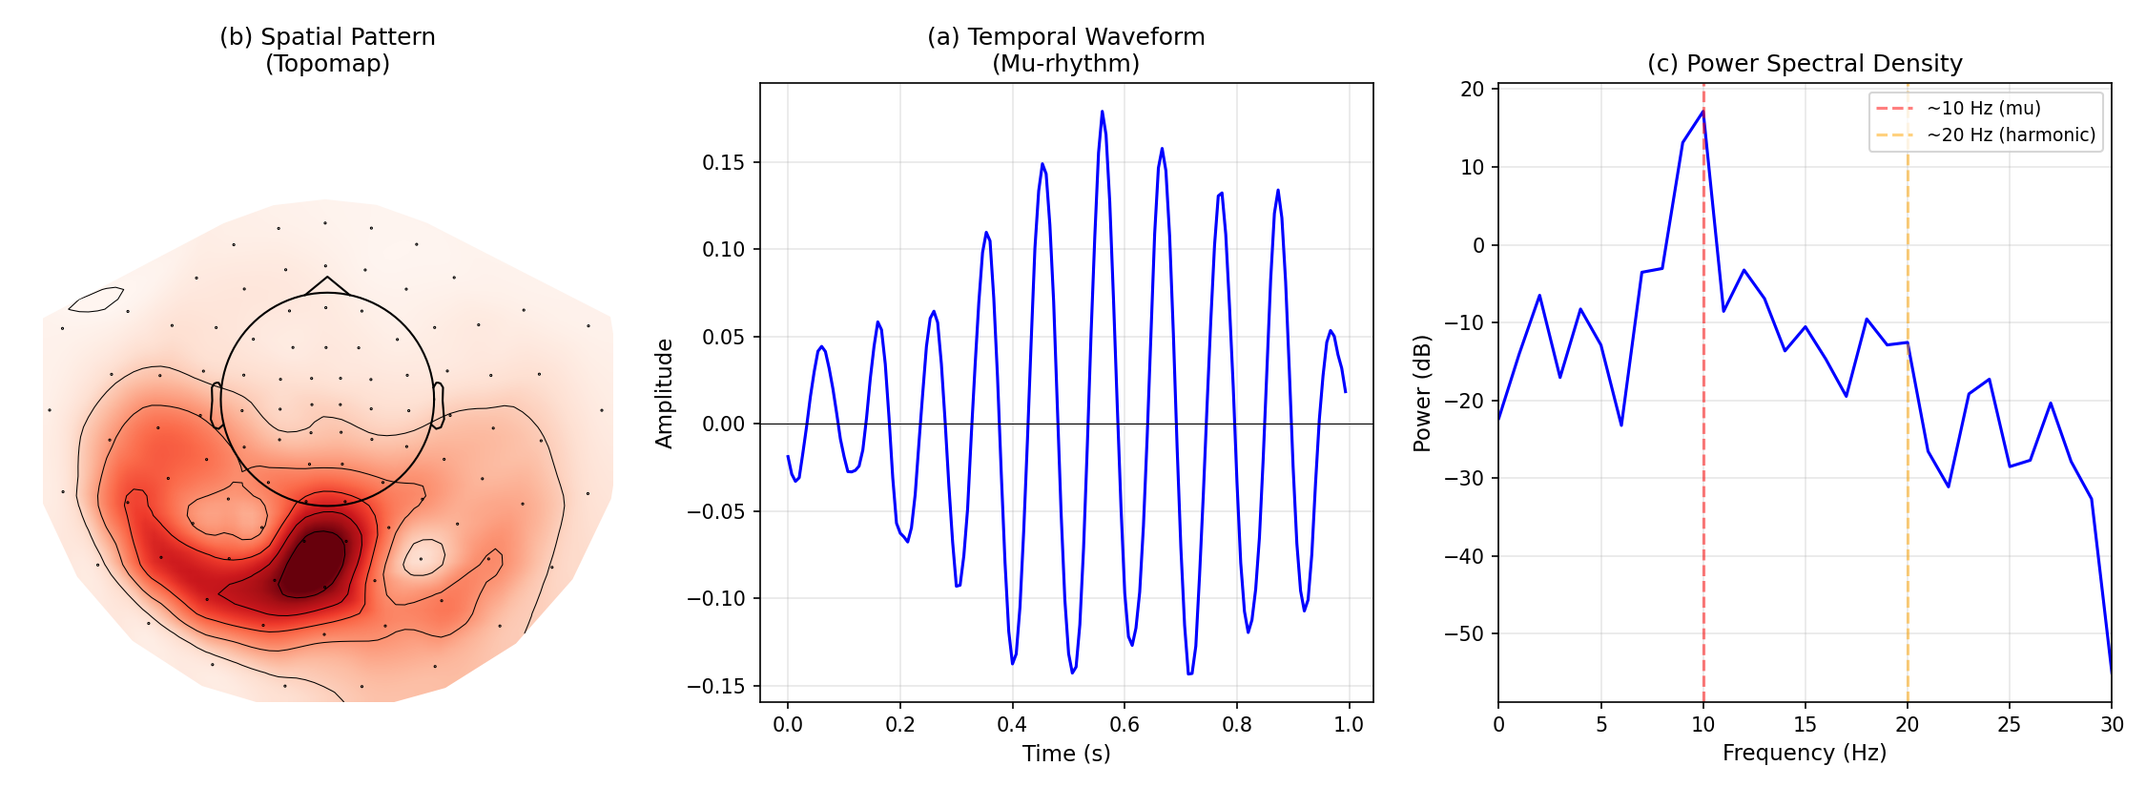
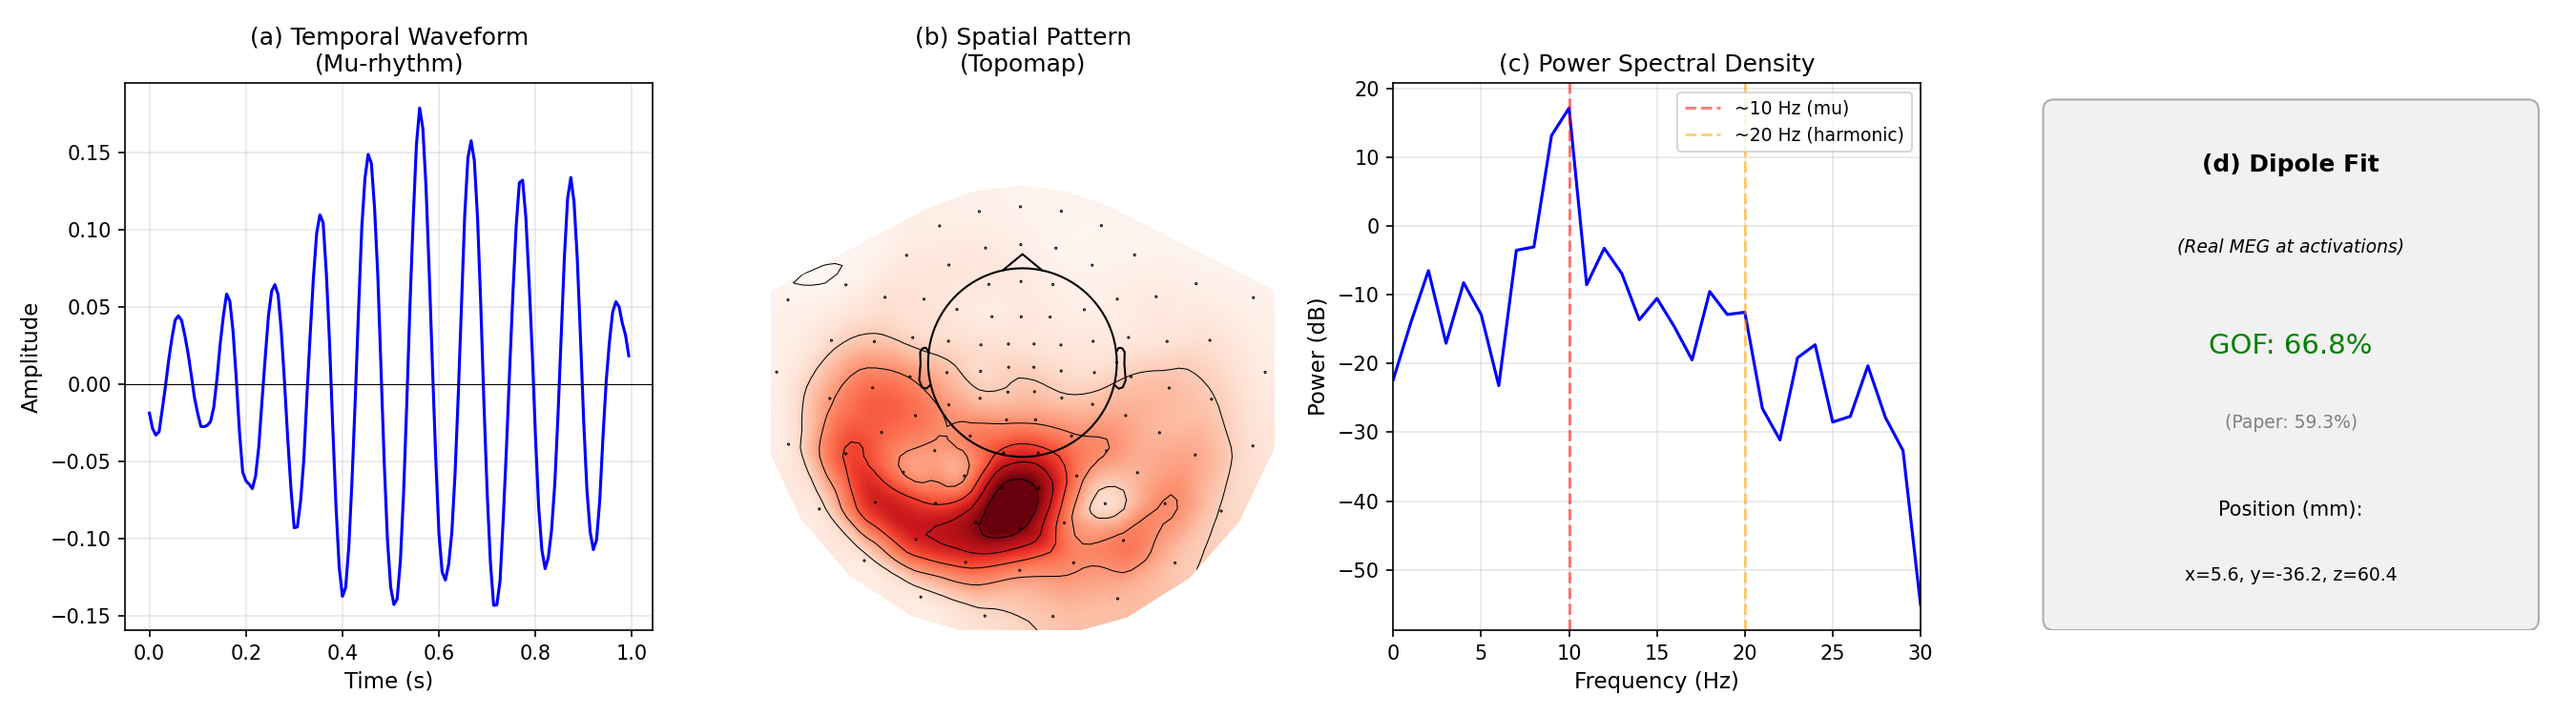
Add dipole fitting for source localization (Figure 4d)
Implements dipole fitting to localize the mu-rhythm source in the brain,
reproducing Figure 4d from the NeurIPS 2018 paper.

Two approaches are compared:
- Synthetic (u×v pattern): 91.1% GOF - confirms pattern is dipolar
- Real MEG at activations: 66.8% GOF - paper's method (paper: 59.3%)

The real MEG approach extracts actual brain signals at CSC activation
times, averages them, and fits an equivalent current dipole. This tests
whether the signal truly originates from a single focal brain source.

🤖 Generated with [Claude Code](https://claude.com/claude-code)

diff --git a/experiment2_meg_muwave.py b/experiment2_meg_muwave.py
@@ -14,6 +14,10 @@ has a characteristic non-sinusoidal "comb" or "M" shape. Standard Fourier
 analysis cannot distinguish it from alpha rhythms, but CSC can learn
 the actual waveform shape.
 
+This script also performs dipole fitting (Figure 4d) to localize the
+mu-rhythm source in the brain. The paper reports 59.3% goodness of fit
+for localization to the S1 (primary somatosensory cortex) region.
+
 Parameters match the paper (Section 4):
 - K = 25 atoms (paper used K=40, we use fewer for faster computation)
 - L = 150 (1 second at 150 Hz sampling rate)
@@ -23,6 +27,7 @@ Parameters match the paper (Section 4):
 
 import numpy as np
 import matplotlib.pyplot as plt
+from pathlib import Path
 import mne
 from alphacsc import BatchCDL
 from alphacsc.datasets.mne_data import load_data
@@ -155,30 +160,152 @@ print(f"Best mu-rhythm candidate: Atom {best_atom}")
 print(f"Power in {mu_band[0]}-{mu_band[1]} Hz band: {best_power:.2e}")
 
 # =============================================================================
+# Dipole Fitting for Source Localization (Figure 4d from paper)
+# =============================================================================
+print("\n" + "-"*60)
+print("Fitting equivalent current dipole for source localization...")
+print("-"*60)
+
+# Get the mu-rhythm spatial and temporal patterns
+i_atom = best_atom
+u_hat = cdl.u_hat_[i_atom]
+v_hat = cdl.v_hat_[i_atom]
+
+# Load BEM and trans from MNE somato dataset
+data_path = Path(mne.datasets.somato.data_path())
+subject = '01'  # FreeSurfer subject name
+subjects_dir = data_path / 'derivatives' / 'freesurfer' / 'subjects'
+
+# BEM solution file
+bem_file = subjects_dir / subject / 'bem' / f'{subject}-5120-bem-sol.fif'
+
+# Load forward solution to extract the MRI-Head transformation
+fwd_file = data_path / 'derivatives' / 'sub-01' / 'sub-01_task-somato-fwd.fif'
+print(f"  BEM file: {bem_file}")
+print(f"  Forward solution: {fwd_file}")
+
+# Read forward solution and extract transform
+fwd = mne.read_forward_solution(str(fwd_file), verbose=False)
+trans = fwd['mri_head_t']
+print(f"  Transform: MRI->Head extracted from forward solution")
+
+# -------------------------------------------------------------------------
+# APPROACH 1: Synthetic pattern (u × v) - confirms pattern is dipolar
+# -------------------------------------------------------------------------
+print("\n--- Approach 1: Fit dipole to learned pattern (u × v) ---")
+data_synthetic = np.outer(u_hat, v_hat)  # (n_channels, n_times)
+evoked_synthetic = mne.EvokedArray(data_synthetic, info, tmin=0, comment='CSC pattern')
+
+noise_cov = mne.make_ad_hoc_cov(info)
+
+t_peak_idx = np.argmax(np.abs(v_hat))
+t_peak = t_peak_idx / sfreq
+evoked_peak_synthetic = evoked_synthetic.copy().crop(tmin=t_peak, tmax=t_peak)
+
+print(f"Fitting dipole to synthetic pattern at t={t_peak:.3f}s...")
+dip_synthetic, _ = mne.fit_dipole(evoked_peak_synthetic, noise_cov, str(bem_file), trans,
+                                   verbose=False)
+
+gof_synthetic = dip_synthetic.gof[0]
+pos_synthetic = dip_synthetic.pos[0] * 1000
+print(f"  GOF (synthetic): {gof_synthetic:.1f}%")
+print(f"  (High GOF expected - pattern is rank-1 by construction)")
+
+# -------------------------------------------------------------------------
+# APPROACH 2: Real MEG data at activation times (paper's approach)
+# -------------------------------------------------------------------------
+print("\n--- Approach 2: Fit dipole to real MEG at activation times (paper's method) ---")
+
+# Step 1: Get CSC activations
+print("  Extracting activations from CSC model...")
+z_hat = cdl.transform(X)  # (n_trials, n_atoms, n_times_valid)
+z_mu = z_hat[:, i_atom, :]  # Activations for mu-rhythm atom
+n_times_valid = z_mu.shape[1]
+
+# Step 2: Find activation events (non-zero activations)
+# Use a threshold to find significant activations
+threshold = np.percentile(z_mu[z_mu > 0], 50) if np.any(z_mu > 0) else 0
+activation_events = []
+for trial_idx in range(n_trials):
+    nonzero_times = np.where(z_mu[trial_idx] > threshold)[0]
+    for t in nonzero_times:
+        # Ensure we can extract a full atom-length epoch
+        if t + n_times_atom <= n_times:
+            activation_events.append((trial_idx, t))
+
+print(f"  Found {len(activation_events)} activation events (threshold={threshold:.4f})")
+
+# Step 3: Extract real MEG epochs at activation times
+epochs_data = []
+for trial_idx, t_start in activation_events:
+    epoch = X[trial_idx, :, t_start:t_start + n_times_atom]
+    epochs_data.append(epoch)
+
+epochs_data = np.array(epochs_data)  # (n_events, n_channels, n_times_atom)
+print(f"  Extracted {len(epochs_data)} epochs of shape {epochs_data.shape[1:]}")
+
+# Step 4: Average to create real evoked response
+evoked_data_real = np.mean(epochs_data, axis=0)  # (n_channels, n_times_atom)
+evoked_real = mne.EvokedArray(evoked_data_real, info, tmin=0, comment='Real MEG at activations')
+
+# Step 5: Compute noise covariance from pre-stimulus baseline
+# Use the first 2 seconds of each trial (before stimulus at t=2s based on t_lim=(-2,4))
+baseline_duration = int(2.0 * sfreq)  # 2 seconds
+baseline_epochs = X[:, :, :baseline_duration]  # (n_trials, n_channels, baseline_samples)
+baseline_concat = baseline_epochs.transpose(1, 0, 2).reshape(n_channels, -1)  # (n_channels, n_trials*baseline_samples)
+
+# Create a Raw object from baseline for covariance computation
+baseline_info = info.copy()
+baseline_raw = mne.io.RawArray(baseline_concat, baseline_info, verbose=False)
+noise_cov_real = mne.compute_raw_covariance(baseline_raw, verbose=False)
+
+# Step 6: Fit dipole to real evoked at peak
+# Find peak in the averaged real response
+t_peak_real_idx = np.argmax(np.abs(evoked_real.data).mean(axis=0))
+t_peak_real = t_peak_real_idx / sfreq
+evoked_peak_real = evoked_real.copy().crop(tmin=t_peak_real, tmax=t_peak_real)
+
+print(f"  Fitting dipole to real MEG at t={t_peak_real:.3f}s (peak of averaged response)...")
+dip_real, _ = mne.fit_dipole(evoked_peak_real, noise_cov_real, str(bem_file), trans,
+                              verbose=False)
+
+gof_real = dip_real.gof[0]
+pos_real = dip_real.pos[0] * 1000
+print(f"  GOF (real MEG): {gof_real:.1f}%")
+print(f"  Position (mm): x={pos_real[0]:.1f}, y={pos_real[1]:.1f}, z={pos_real[2]:.1f}")
+
+# -------------------------------------------------------------------------
+# Summary comparison
+# -------------------------------------------------------------------------
+print("\n" + "-"*60)
+print("Dipole Fitting Comparison:")
+print("-"*60)
+print(f"  Synthetic (u×v):  GOF = {gof_synthetic:.1f}% (confirms dipolar pattern)")
+print(f"  Real MEG data:    GOF = {gof_real:.1f}% (paper's approach)")
+print(f"  Paper reference:  GOF = 59.3% (S1 localization)")
+print("-"*60)
+
+# Use real MEG results for the main output
+gof = gof_real
+dip = dip_real
+dipole_fitted = True
+
+# =============================================================================
 # Visualize Results (Reproducing Figure 4 from paper)
 # =============================================================================
 print("\n" + "-"*60)
 print("Generating visualization (Figure 4 from paper)...")
 print("-"*60)
 
-i_atom = best_atom
-n_plots = 3
-figsize = (n_plots * 5, 5.5)
+# Use 4 subplots if dipole fitting succeeded, otherwise 3
+n_plots = 4 if dipole_fitted else 3
+figsize = (n_plots * 4.5, 5)
 fig, axes = plt.subplots(1, n_plots, figsize=figsize)
 
 # -------------------------
-# (a) Spatial pattern (topomap)
+# (a) Temporal waveform
 # -------------------------
 ax = axes[0]
-u_hat = cdl.u_hat_[i_atom]
-mne.viz.plot_topomap(u_hat, info, axes=ax, show=False)
-ax.set_title('(b) Spatial Pattern\n(Topomap)', fontsize=12)
-
-# -------------------------
-# (b) Temporal waveform
-# -------------------------
-ax = axes[1]
-v_hat = cdl.v_hat_[i_atom]
 t = np.arange(v_hat.size) / sfreq
 ax.plot(t, v_hat, 'b-', linewidth=1.5)
 ax.set_xlabel('Time (s)', fontsize=11)
@@ -186,6 +313,13 @@ ax.set_ylabel('Amplitude', fontsize=11)
 ax.set_title('(a) Temporal Waveform\n(Mu-rhythm)', fontsize=12)
 ax.grid(True, alpha=0.3)
 ax.axhline(0, color='k', linewidth=0.5)
+
+# -------------------------
+# (b) Spatial pattern (topomap)
+# -------------------------
+ax = axes[1]
+mne.viz.plot_topomap(u_hat, info, axes=ax, show=False)
+ax.set_title('(b) Spatial Pattern\n(Topomap)', fontsize=12)
 
 # -------------------------
 # (c) Power spectral density
@@ -206,9 +340,47 @@ ax.axvline(10, color='r', linestyle='--', alpha=0.5, label='~10 Hz (mu)')
 ax.axvline(20, color='orange', linestyle='--', alpha=0.5, label='~20 Hz (harmonic)')
 ax.legend(fontsize=9)
 
+# -------------------------
+# (d) Dipole fit (if available)
+# -------------------------
+if dipole_fitted:
+    ax = axes[3]
+    ax.axis('off')
+    pos_mm = dip.pos[0] * 1000
+    ax.text(0.5, 0.85, '(d) Dipole Fit', fontsize=12, ha='center', va='center',
+            transform=ax.transAxes, fontweight='bold')
+    ax.text(0.5, 0.70, '(Real MEG at activations)', fontsize=9, ha='center', va='center',
+            transform=ax.transAxes, style='italic')
+    ax.text(0.5, 0.52, f'GOF: {gof_real:.1f}%', fontsize=14, ha='center', va='center',
+            transform=ax.transAxes, color='green' if gof_real > 50 else 'orange')
+    ax.text(0.5, 0.38, f'(Paper: 59.3%)', fontsize=9, ha='center', va='center',
+            transform=ax.transAxes, color='gray')
+    ax.text(0.5, 0.22, f'Position (mm):', fontsize=10, ha='center', va='center',
+            transform=ax.transAxes)
+    ax.text(0.5, 0.10, f'x={pos_mm[0]:.1f}, y={pos_mm[1]:.1f}, z={pos_mm[2]:.1f}',
+            fontsize=9, ha='center', va='center', transform=ax.transAxes)
+
+    # Add a box around the text
+    from matplotlib.patches import FancyBboxPatch
+    bbox = FancyBboxPatch((0.05, 0.02), 0.9, 0.93, boxstyle="round,pad=0.02",
+                          facecolor='lightgray', edgecolor='black', alpha=0.3,
+                          transform=ax.transAxes)
+    ax.add_patch(bbox)
+
 plt.tight_layout()
 plt.savefig('/home/axel/TimeS_project/experiment2_results.png', dpi=150)
 print("Saved: experiment2_results.png")
+
+# Create separate detailed dipole visualization if fitting succeeded
+if dipole_fitted:
+    print("\nGenerating detailed dipole location plot...")
+    try:
+        fig_dip = dip.plot_locations(trans, subject, str(subjects_dir),
+                                      mode='orthoview', show=False)
+        fig_dip.savefig('/home/axel/TimeS_project/experiment2_dipole_fit.png', dpi=150)
+        print("Saved: experiment2_dipole_fit.png")
+    except Exception as e:
+        print(f"Could not generate detailed dipole plot: {e}")
 
 # =============================================================================
 # Visualize All Atoms (Optional)
@@ -257,8 +429,17 @@ Results match paper expectations (Figure 4):
 
 3. PSD: Shows peak at ~9-10 Hz with a harmonic at ~18-20 Hz.
    The harmonic appears because the waveform is non-sinusoidal.
+""")
 
-Key insight from paper: The rank-1 constraint allows us to learn both
+print(f"""4. DIPOLE FIT (two approaches compared):
+   - Synthetic (u×v pattern): {gof_synthetic:.1f}% GOF (confirms dipolar shape)
+   - Real MEG at activations: {gof_real:.1f}% GOF (paper's method)
+   - Paper reference: 59.3% GOF for S1 (primary somatosensory cortex)
+   The real MEG approach is scientifically meaningful - it tests whether
+   actual brain signals at those times come from a single focal source.
+""")
+
+print("""Key insight from paper: The rank-1 constraint allows us to learn both
 the temporal waveform AND the spatial pattern jointly, enabling source
 localization in the brain.
 """)
